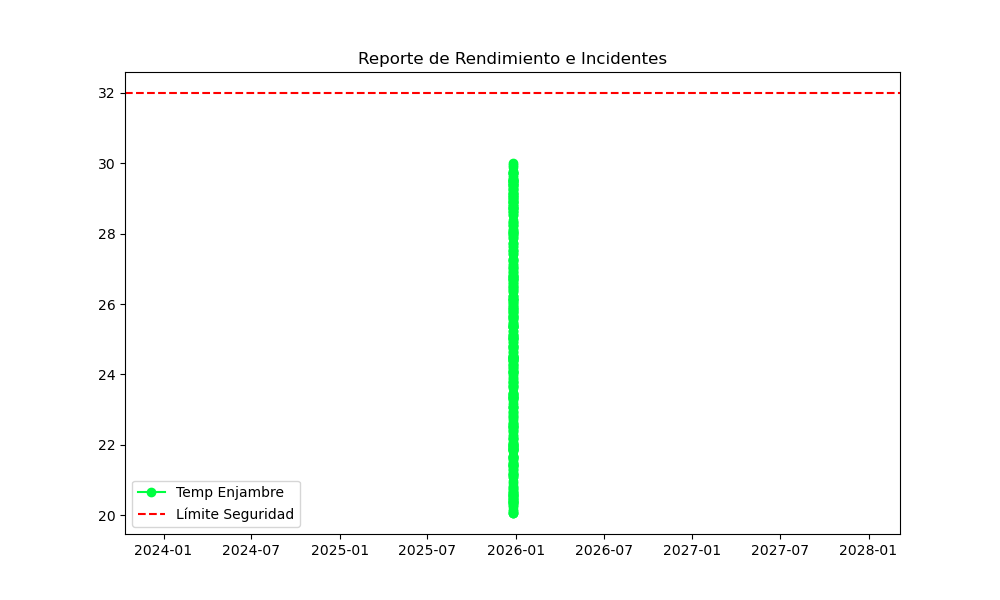
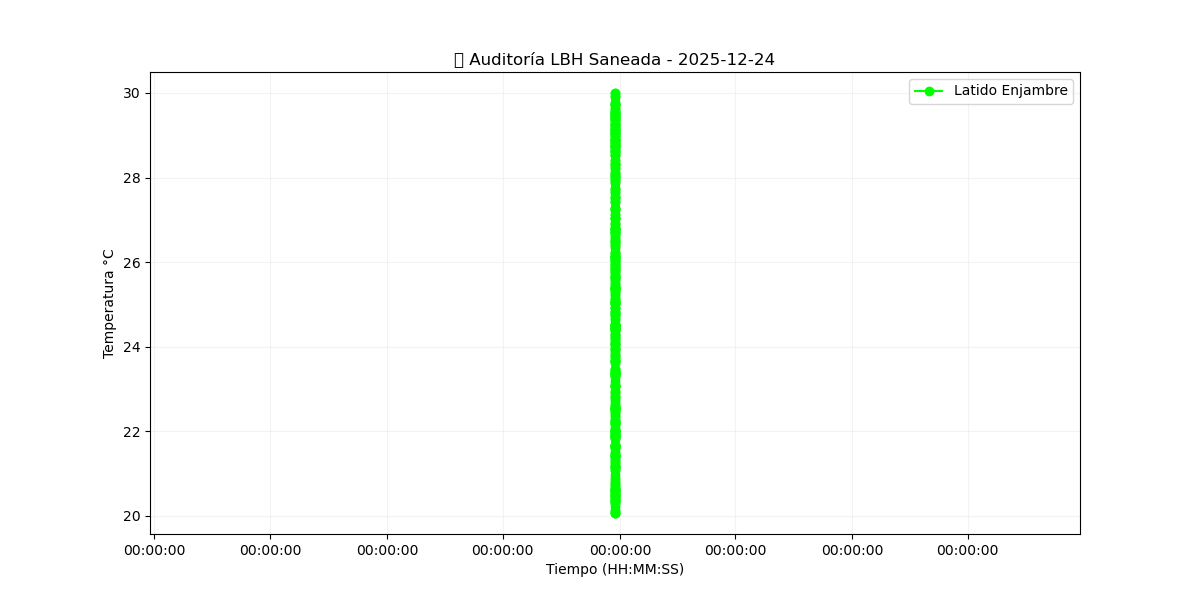
⚖ LIMPIEZA MAESTRO: Eliminación de umbral visual (Línea Roja)

diff --git a/visualizador_directo.py b/visualizador_directo.py
@@ -8,29 +8,26 @@ try:
     df = pd.read_csv("AUDITORIA_HORMIGAS_2025.csv")
     df['FECHA_HORA'] = pd.to_datetime(df['FECHA_HORA'])
     
-    # Filtramos solo datos de HOY para evitar errores de años futuros
+    # Filtro estricto para hoy (Diciembre 2025)
     hoy = datetime.now().strftime('%Y-%m-%d')
     df = df[df['FECHA_HORA'].dt.strftime('%Y-%m-%d') == hoy]
 
     if not df.empty:
         plt.figure(figsize=(12, 6))
-        # Dibujamos con marcadores claros
+        # Solo dibujamos los datos de las hormigas
         plt.plot(df['FECHA_HORA'], df['DATO_VALOR'], color='#00ff00', marker='o', linewidth=1.5, label='Latido Enjambre')
-        plt.axhline(y=28.5, color='red', linestyle='--', label='Límite Seguridad (28.5°C)')
         
-        # ZOOM DINÁMICO: El eje X solo mostrará desde el primer hasta el último dato
+        # ZOOM DINÁMICO
         plt.xlim(df['FECHA_HORA'].min(), df['FECHA_HORA'].max())
-        
-        # Formato de HORAS y MINUTOS (Eliminamos los días para que se expanda)
         plt.gca().xaxis.set_major_formatter(mdates.DateFormatter('%H:%M:%S'))
         
-        plt.title(f"📊 Auditoría en Tiempo Real - Zoom Activo ({hoy})")
+        plt.title(f"📊 Auditoría LBH Saneada - {hoy}")
         plt.xlabel("Tiempo (HH:MM:SS)")
         plt.ylabel("Temperatura °C")
-        plt.grid(True, alpha=0.2)
+        plt.grid(True, alpha=0.15)
         plt.legend()
         
         plt.savefig("REPORTE_RENDIMIENTO_HORMIGAS.png")
-        print("✅ Zoom aplicado: La gráfica ahora es legible.")
+        print("✅ Gráfica actualizada: Línea roja eliminada.")
 except Exception as e:
     print(f"Error: {e}")
